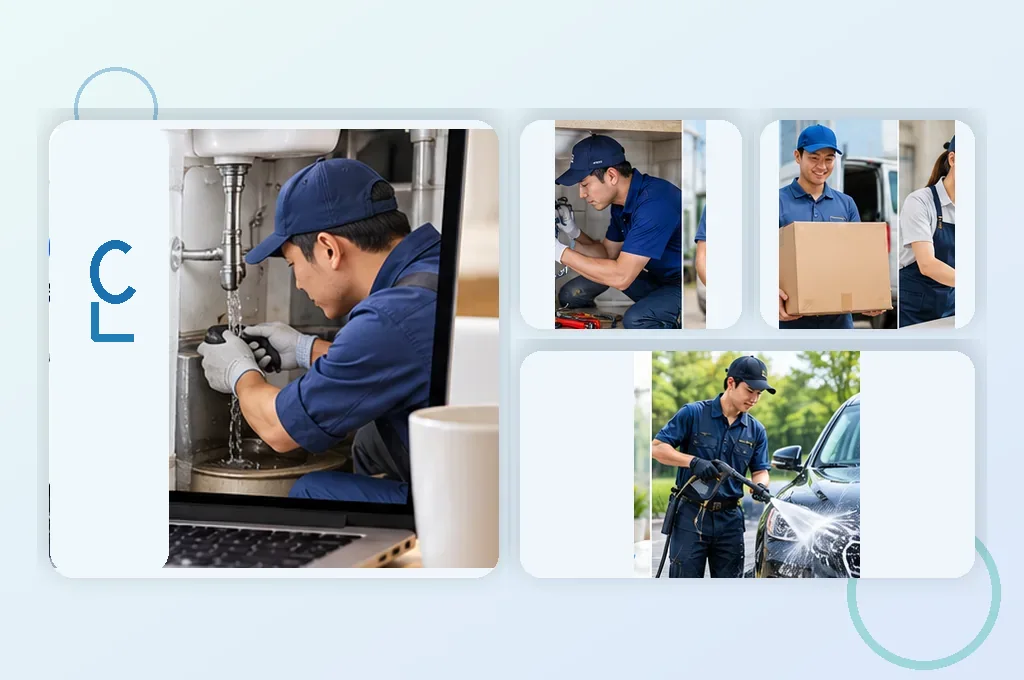
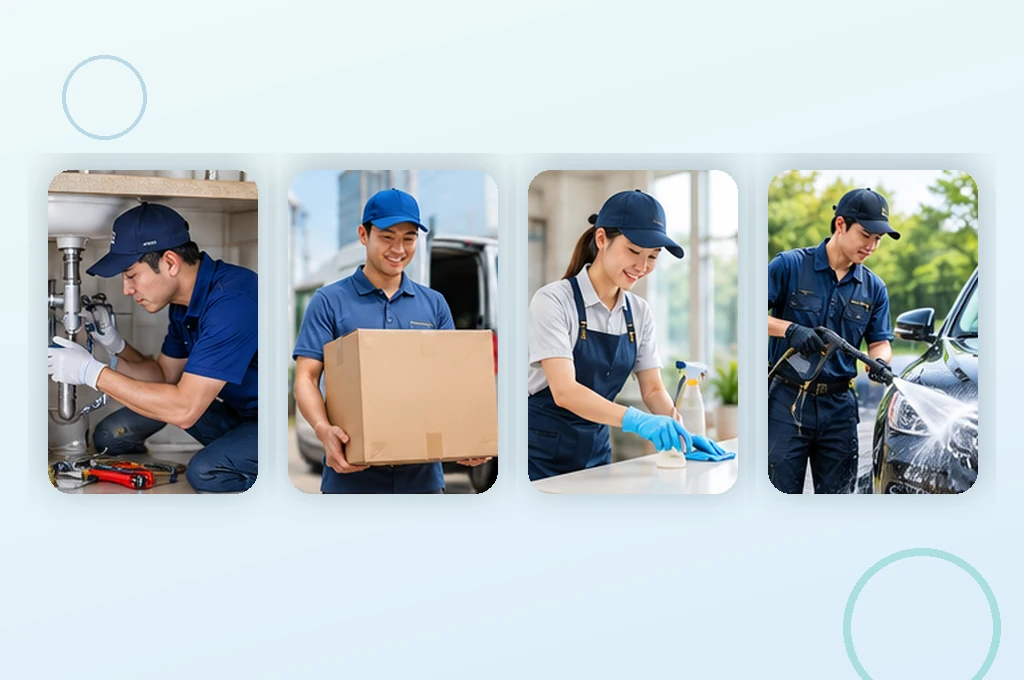
fix(webbuilder): clean 3 generated WebP visuals, mark virtual portfolio example and preserve source provenance

diff --git a/scripts/repair_webbuilder_visuals.py b/scripts/repair_webbuilder_visuals.py
@@ -1,0 +1,101 @@
+# Run with full-res source PNGs only; no thumbnails. Pillow + NumPy needed.
+"""Repair Webbuilder source-generated raster art by reframing full-res PNG crops.
+
+Inputs: three 1536x1024 OpenAI image_gen originals from archived ZIP; generated
+site WebP images. No external photography, thumbnails or real customer cases.
+"""
+from PIL import Image, ImageDraw, ImageFilter, ImageOps, ImageFont
+from pathlib import Path
+import hashlib, json, math, datetime
+import numpy as np
+
+OUT=Path(os.environ.get('WEBBUILDER_IMAGE_OUTPUT', '/mnt/data/webbuilder_visual_fix'));OUT.mkdir(parents=True,exist_ok=True)
+BASE=Path(os.environ.get('WEBBUILDER_IMAGE_SOURCE_DIR','/mnt/data'))
+A=Image.open(BASE/'a_bright_clean_modern_workspace_scene_a_shallow.png').convert('RGB')
+B=Image.open(BASE/'a_clean_well_lit_collage_style_marketing_banner_l.png').convert('RGB')
+C=Image.open(BASE/'a_clean_bright_modern_korean_web_landing_page_co.png').convert('RGB')
+fontpath='/usr/share/fonts/truetype/nanum/NanumSquareB.ttf'
+
+def background(tint):
+    w,h=1024,680
+    a=np.array(tint[0],dtype=float).reshape(1,1,3)
+    b=np.array(tint[1],dtype=float).reshape(1,1,3)
+    yy=np.linspace(0,1,h,dtype=float).reshape(h,1,1)
+    xx=np.linspace(0,1,w,dtype=float).reshape(1,w,1)
+    t=yy*.72+xx*.28
+    rgb=(a*(1-t)+b*t).clip(0,255).astype(np.uint8)
+    return Image.fromarray(rgb,'RGB')
+
+def panel(canvas, photo, xy, target_size, radius=24, centering=(.5,.5)):
+    x,y=xy;w,h=target_size
+    im=ImageOps.fit(photo,(w,h),method=Image.Resampling.LANCZOS,centering=centering)
+    mask=Image.new('L',(w,h));md=ImageDraw.Draw(mask)
+    md.rounded_rectangle((0,0,w-1,h-1),radius=radius,fill=255)
+    # no bright rectangular blank overlay: only a translucent rounded shadow
+    shadow=Image.new('RGBA',(w+38,h+50),(0,0,0,0));sd=ImageDraw.Draw(shadow)
+    sd.rounded_rectangle((20,12,20+w,12+h),radius=radius,fill=(17,47,86,65))
+    shadow=shadow.filter(ImageFilter.GaussianBlur(16))
+    canvas.paste(shadow,(x-20,y-17),shadow)
+    canvas.paste(im,(x,y),mask)
+
+def decor(im):
+    d=ImageDraw.Draw(im,'RGBA')
+    d.ellipse((62,55,146,139),outline=(38,122,183,63),width=4)
+    d.ellipse((843,548,1000,706),outline=(21,175,155,65),width=8)
+    return im
+
+# 1) Four independent, photo-only industry examples. Crop from generated full-size
+# four-service strip, NOT from old 200x133 thumbnail nor from text/monitor border.
+industry=decor(background(((239,250,250),(220,238,249))))
+# All four regions are inside the photo strip, above text captions.
+service_regions=[(777,436,951,680),(958,436,1128,680),(1134,436,1294,680),(1300,436,1524,680)]
+for i,box in enumerate(service_regions):
+    src=B.crop(box)
+    panel(industry,src,(48+i*240,170),(210,324),radius=23,centering=(.5,.43))
+# no letters, laptop, or cup inside industry image
+industry.save(OUT/'industry-services.webp','WEBP',quality=89,method=6)
+
+# 2) Contact scene. The photographed operator starts to the RIGHT of the text
+# column in source3: x>=508 intentionally excludes the auto-generated word cards.
+contact=decor(background(((238,249,248),(220,237,249))))
+phone_crop=A.crop((1152,340,1464,861))
+operator_crop=C.crop((510,11,748,470))
+panel(contact,phone_crop,(126,117),(307,475),radius=29,centering=(.5,.49))
+panel(contact,operator_crop,(565,100),(333,490),radius=29,centering=(.50,.44))
+contact.save(OUT/'mobile-contact.webp','WEBP',quality=90,method=6)
+
+# 3) Domains: use a *generic* generated mock UI from source1 rather than a collage
+# whose screen said '제작사례'. Explicit Korean disclosure in the artwork itself.
+managed=decor(background(((242,249,253),(224,242,246))))
+mock=A.crop((255,150,1140,873))
+panel(managed,mock,(50,119),(530,405),radius=24,centering=(.52,.50))
+d=ImageDraw.Draw(managed,'RGBA')
+# conceptual network, no customer-owned brand/domain names shown
+nodes=[(742,211),(863,166),(858,374),(713,436)]
+for nx,ny in nodes:
+    d.line((684,317,nx,ny),fill=(42,112,172,93),width=6)
+    d.ellipse((nx-24,ny-24,nx+24,ny+24),fill=(232,250,249,255),outline=(51,143,161,184),width=4)
+    d.ellipse((nx-7,ny-7,nx+7,ny+7),fill=(26,160,157,255))
+# text badge below photo, not covering any existing UI
+label='가상 홈페이지 화면 예시 · 실제 고객사례 아님'
+fnt=ImageFont.truetype(fontpath,23)
+metrics=d.textbbox((0,0),label,font=fnt);tw=metrics[2]-metrics[0]
+left=50;top=560;right=max(580,left+tw+32)
+d.rounded_rectangle((left,top,right,top+47),radius=13,fill=(246,251,255,255),outline=(147,184,216,160),width=2)
+d.text((left+15,top+10),label,font=fnt,fill=(34,68,105,255))
+managed.save(OUT/'managed-domain.webp','WEBP',quality=89,method=6)
+
+records=[]
+for p in sorted(OUT.glob('*.webp')):
+    im=Image.open(p)
+    records.append({'name':p.name,'size':p.stat().st_size,'width':im.width,'height':im.height,'sha256':hashlib.sha256(p.read_bytes()).hexdigest()})
+(OUT/'repair-results.json').write_text(json.dumps(records,ensure_ascii=False,indent=2)+'\n',encoding='utf-8')
+# contact sheet allows compact visual inspection of defects
+thumb=Image.new('RGB',(1050,3*745),(248,251,254));d=ImageDraw.Draw(thumb)
+font=ImageFont.truetype(fontpath,29)
+for i,p in enumerate(sorted(OUT.glob('*.webp'))):
+    panel_image=Image.open(p).convert('RGB')
+    thumb.paste(panel_image,(13, i*745+10))
+    d.text((22,i*745+699),p.name,font=font,fill='#112a48')
+thumb.save(OUT/'comparison-sheet.jpg',quality=88)
+print(json.dumps(records,ensure_ascii=False,indent=2))

diff --git a/scripts/build_webbuilder.py b/scripts/build_webbuilder.py
@@ -369,7 +369,8 @@ def render_pricing(pool: dict) -> str:
         '<p class="sub-lead">페이지당 월 1,000원, 최소 10페이지부터 제작합니다. 업종별 맞춤 도메인을 확보하고 관리해 드리며, 기본 홈페이지 제작·주소 제공·서버 운영비까지 포함합니다.</p>'
         '</div></section><section class="section"><div class="container narrow">'
         '<div class="price-panel full"><h2>페이지 수에 따른 월 이용료</h2>' + monthly_price_rows(pool) +
-        illustration("managed-domain.webp", "업종별 홈페이지 주소 관리를 나타내는 생성형 래스터 홍보 이미지", "price-illustration") +
+        illustration("managed-domain.webp", "가상 홈페이지 화면 예시, 실제 고객사례가 아닌 생성형 이미지", "price-illustration") +
+        '<p class="small-note">이 이미지는 생성형 가상 홈페이지 화면 예시이며 실제 고객 작업 사례가 아닙니다.</p>'
         '<p class="price-footnote">최소 10페이지부터 신청 가능하며, 월 1,000원/페이지입니다. 계약기간·부가세·수정 및 홈페이지 주소 이용 조건은 상담 시 안내합니다.</p></div>'
         '<div class="article-section"><h2>한 도시의 모든 동도 같은 금액인가요?</h2>'
         + paragraph("시마다 동 개수는 서로 다릅니다. 20~30페이지를 이용하는 경우 월 2만~3만원이지만, 해당 시 전체 동을 반드시 같은 월 이용료로 구성할 수 있다는 뜻은 아닙니다. 실제 서비스 가능 지역과 페이지 구성을 확인해 필요한 수를 산정합니다.")

diff --git a/tests/test_webbuilder.py b/tests/test_webbuilder.py
@@ -187,6 +187,19 @@ class WebbuilderPreviewTest(unittest.TestCase):
                 self.assertGreaterEqual(info["width"], 768)
                 self.assertIn("/assets/images/" + name, all_html)
 
+    def test_virtual_example_disclosure_and_image_review_ledger(self):
+        data = (self.out / "guide" / "pricing" / "index.html").read_text(encoding="utf-8")
+        self.assertIn("가상 홈페이지 화면 예시이며 실제 고객 작업 사례가 아닙니다", data)
+        source = ROOT / "sites" / "webbuilder" / "illustrations" / "generated"
+        import json
+        manifest = json.loads((source / "provenance.json").read_text(encoding="utf-8"))
+        fix = manifest["visualCorrection"]
+        self.assertEqual(set(fix["editedFiles"]),
+                         {"industry-services.webp","mobile-contact.webp","managed-domain.webp"})
+        self.assertEqual(len(fix["sourcePaths"]),3)
+        self.assertIn("not independently verified",fix["rightsEvidenceStatus"])
+        self.assertTrue(fix["noRelease"])
+
     def test_all_38_sectors_are_discoverable_and_related(self):
         home = (self.out / "index.html").read_text(encoding="utf-8")
         self.assertEqual(home.count('class="industry-card"'), 38)
